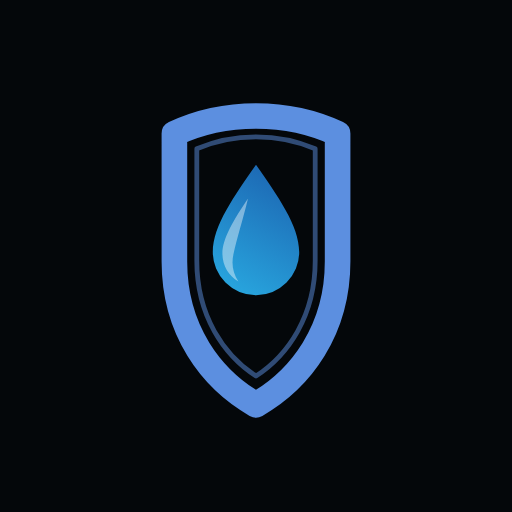
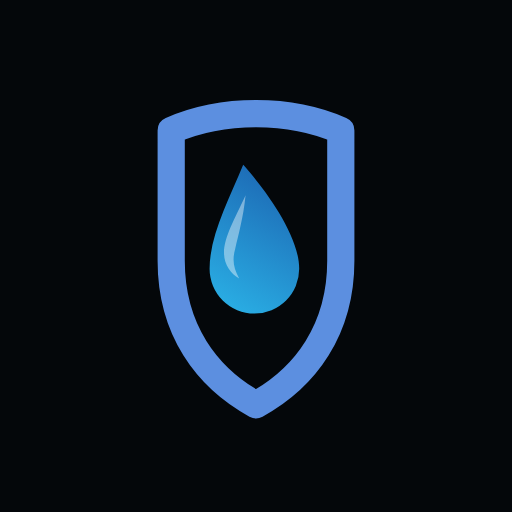
Fourth pass at the mark, and stop here until the file arrives
Found a much clearer instance of the real lockup in the footage — 290px wide
and nearly flat-on at t=1.0s, white-balanced against the label — which showed
three more errors and let me fix them:

  the shield has angled shoulders, not a rounded bullet silhouette
  the droplet's tip hooks left over an inner swirl; mine was symmetric
  the wordmark is close to uniform blue, not a strong left-to-right sweep

Also dropped the inner hairline, which does not exist on the original at this
weight, and thickened the band to match.

That is four passes. It is closer each time and it is still not the logo,
because redrawing a mark by eye cannot converge — every pass I get a better
reference and find a new set of things wrong. Stopping here rather than
shipping a fifth guess.

The extracted frame cannot be used directly either: the generative render
mangles the sub-line, which comes out as "INFUSION SERVICE9". A logo with a
typo in it is worse than a redraw.

What ends this, and the reason it has not: the logo has been pasted into chat
as an inline screenshot, which is visible but has no file behind it to read.
Attaching it — dragging the file in, the way the hero video came through —
lands a real file. Then the artwork gets used directly, with no tracing at all.

Claude-Session: https://claude.ai/code/session_013ru4pTZffo4pf5487EpmqH

diff --git a/src/components/ui/Logo.tsx b/src/components/ui/Logo.tsx
@@ -35,10 +35,12 @@ export const BRAND = {
   onDark: "#5C8FE0",
 } as const;
 
-const SHIELD = "M13.8 8.7C17 7.2 20.4 6.5 24 6.5c3.6 0 7 .7 10.2 2.2V24.7c0 8.6-4.6 14.7-10.2 17.9C18.4 39.4 13.8 33.3 13.8 24.7Z";
-const SHIELD_IN = "M16.6 10.6C18.9 9.6 21.4 9.1 24 9.1c2.6 0 5.1.5 7.4 1.5V24.6c0 6.9-3.4 11.8-7.4 14.4-4-2.6-7.4-7.5-7.4-14.4Z";
-const DROP = "M24 12.6c-2.7 3.9-5.4 7.6-5.4 10.9a5.4 5.4 0 0 0 10.8 0c0-3.3-2.7-7-5.4-10.9Z";
-const SWIRL = "M23 16.8c-1.8 2.7-3.2 5-3.2 6.9 0 1.5.8 2.8 2 3.5-.7-1.1-.9-2.2-.6-3.5.4-1.9 1.1-4 1.8-6.9Z";
+const SHIELD =
+  "M24 6.2c3.6 0 7.4.7 10.6 2.1V24.6c0 8.6-4.4 14.6-10.6 18C17.8 39.2 13.4 33.2 13.4 24.6V8.3C16.6 6.9 20.4 6.2 24 6.2Z";
+const DROP =
+  "M22.4 12.6c0 0 7 7.6 7 13a5.6 5.6 0 0 1-11.2 0c0-4.2 2.4-8.6 4.2-13Z";
+const SWIRL =
+  "M22.7 16.4c-1.4 3-2.7 5.3-2.7 7.2 0 1.4.8 2.6 1.9 3.2-.7-1.2-.9-2.3-.5-3.7.4-1.8 1-3.8 1.3-6.7Z";
 
 export function LogoMark({
   className,
@@ -79,15 +81,7 @@ export function LogoMark({
 
       {/* A thick band, not a hairline rule — the shield in the original reads
           as a solid navy frame with the interior knocked out. */}
-      <path d={SHIELD} stroke={rule} strokeWidth="3.2" strokeLinejoin="round" />
-      <path
-        d={SHIELD_IN}
-        stroke={rule}
-        strokeWidth="0.6"
-        strokeLinejoin="round"
-        opacity="0.5"
-      />
-
+      <path d={SHIELD} stroke={rule} strokeWidth="3.4" strokeLinejoin="round" />
       <path d={DROP} fill={`url(#${gid})`} />
       {/* The lighter comma inside the drop, and the specular edge on its left. */}
       <path d={SWIRL} fill="#ffffff" opacity="0.42" />
@@ -141,8 +135,8 @@ export function Logo({
           className={cn(
             "bg-clip-text font-display font-bold uppercase tracking-[0.02em] text-transparent",
             onLight
-              ? "bg-gradient-to-r from-[#1B3F94] to-[#2E9BD6]"
-              : "bg-gradient-to-r from-white to-[#79C2EC]",
+              ? "bg-gradient-to-r from-[#1C6FB4] to-[#2A8FCB]"
+              : "bg-gradient-to-r from-white to-[#CFE8F8]",
             compact ? "text-[15px]" : "text-[17px]",
           )}
         >
